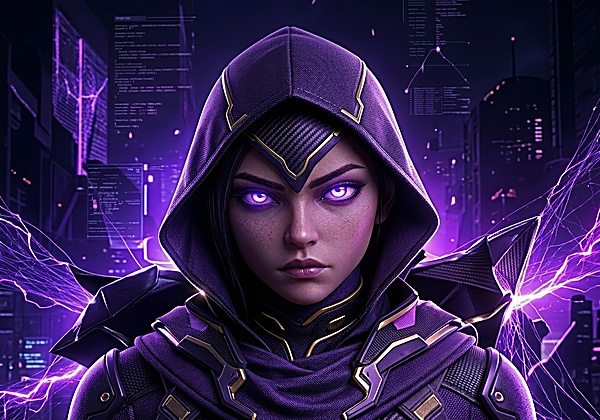
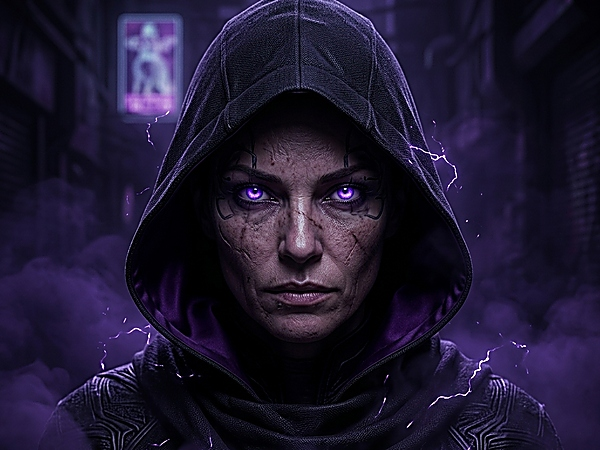
fix(ui): dark-themed VP Omen hero, full-image marketplace cards, and gritty profile portraits matching references

diff --git a/src/components/client/ClientHomePage.tsx b/src/components/client/ClientHomePage.tsx
@@ -154,57 +154,57 @@ export const ClientHomePage: React.FC<ClientHomePageProps> = ({
       {/* ========================================================================= */}
       {/* 1. HERO SECTION (Matching Reference Image media_1789878444993.jpg)       */}
       {/* ========================================================================= */}
-      <section className="relative w-full overflow-hidden min-h-[460px] sm:min-h-[500px] lg:min-h-[520px] flex items-center">
+      <section className="relative w-full overflow-hidden min-h-[380px] sm:min-h-[420px] lg:min-h-[450px] flex items-center">
         {/* Ambient atmospheric purple lighting */}
-        <div className="absolute top-1/3 right-1/4 w-[600px] h-[450px] bg-purple-600/20 rounded-full blur-[130px] pointer-events-none z-[1]" />
-        <div className="absolute bottom-0 left-10 w-[450px] h-[300px] bg-fuchsia-800/15 rounded-full blur-[100px] pointer-events-none z-[1]" />
+        <div className="absolute top-1/3 right-1/4 w-[500px] h-[380px] bg-purple-600/20 rounded-full blur-[120px] pointer-events-none z-[1]" />
+        <div className="absolute bottom-0 left-10 w-[400px] h-[260px] bg-fuchsia-800/15 rounded-full blur-[90px] pointer-events-none z-[1]" />
 
         {/* Right-aligned Hero Art container matching 16:9 reference scene without top/bottom clipping */}
-        <div className="absolute top-0 right-0 bottom-0 w-full lg:w-[60%] pointer-events-none select-none overflow-hidden z-0 flex items-center justify-end">
+        <div className="absolute top-0 right-0 bottom-0 w-full lg:w-[54%] pointer-events-none select-none overflow-hidden z-0 flex items-center justify-end">
           <img
             src="/assets/hires/hero_banner_full.jpg"
             alt="VIB Digital Profiles Heroine"
             className="w-full h-full object-cover object-center select-none pointer-events-none opacity-95"
           />
           {/* Smooth feathering gradient on the left boundary */}
-          <div className="absolute inset-y-0 left-0 w-44 sm:w-64 bg-gradient-to-r from-[#05040a] via-[#05040a]/80 to-transparent z-[1]" />
+          <div className="absolute inset-y-0 left-0 w-40 sm:w-60 bg-gradient-to-r from-[#05040a] via-[#05040a]/80 to-transparent z-[1]" />
           {/* Subtle top/bottom edge softening */}
           <div className="absolute inset-x-0 top-0 h-10 bg-gradient-to-b from-[#05040a] to-transparent z-[1]" />
           <div className="absolute inset-x-0 bottom-0 h-12 bg-gradient-to-t from-[#05040a] to-transparent z-[1]" />
         </div>
 
-        <div className="max-w-[1360px] mx-auto px-4 sm:px-6 lg:px-8 w-full relative z-10 py-8 sm:py-12">
-          <div className="max-w-xl lg:max-w-2xl space-y-4">
+        <div className="max-w-[1360px] mx-auto px-4 sm:px-6 lg:px-8 w-full relative z-10 py-6 sm:py-9">
+          <div className="max-w-xl lg:max-w-xl space-y-3.5">
             {/* Main Headline (2 lines matching reference exactly) */}
             <div className="space-y-1">
-              <h1 className="text-5xl sm:text-6xl lg:text-7xl font-black uppercase tracking-tight text-white leading-none font-rajdhani">
+              <h1 className="text-4xl sm:text-5xl lg:text-6xl font-black uppercase tracking-tight text-white leading-none font-rajdhani">
                 EXPLORE
               </h1>
-              <div className="text-5xl sm:text-6xl lg:text-7xl font-black uppercase tracking-tight leading-none font-rajdhani text-transparent bg-clip-text bg-gradient-to-r from-[#f3e8ff] via-[#d946ef] to-[#a855f7] drop-shadow-[0_0_35px_rgba(217,70,239,0.65)]">
+              <div className="text-4xl sm:text-5xl lg:text-6xl font-black uppercase tracking-tight leading-none font-rajdhani text-transparent bg-clip-text bg-gradient-to-r from-[#f3e8ff] via-[#d946ef] to-[#a855f7] drop-shadow-[0_0_30px_rgba(217,70,239,0.65)]">
                 DIGITAL PROFILES
               </div>
             </div>
 
             {/* Subtitle */}
-            <p className="text-gray-300 text-sm sm:text-base leading-relaxed font-normal max-w-lg">
+            <p className="text-gray-300 text-xs sm:text-sm leading-relaxed font-normal max-w-lg">
               Find your next competitive identity. Choose a marketplace below to start browsing verified profiles or community listings.
             </p>
 
             {/* 4 Trust Micro Pills */}
-            <div className="flex flex-wrap items-center gap-2.5 pt-2">
-              <div className="px-3.5 py-1.5 rounded-full bg-[#120f24]/90 border border-purple-500/35 text-xs text-gray-200 flex items-center gap-2 shadow-md">
+            <div className="flex flex-wrap items-center gap-2 pt-1">
+              <div className="px-3 py-1.5 rounded-full bg-[#120f24]/90 border border-purple-500/35 text-xs text-gray-200 flex items-center gap-2 shadow-md">
                 <ShieldCheck className="w-3.5 h-3.5 text-purple-400" />
                 <span className="font-medium">Safe &amp; Secure</span>
               </div>
-              <div className="px-3.5 py-1.5 rounded-full bg-[#120f24]/90 border border-purple-500/35 text-xs text-gray-200 flex items-center gap-2 shadow-md">
+              <div className="px-3 py-1.5 rounded-full bg-[#120f24]/90 border border-purple-500/35 text-xs text-gray-200 flex items-center gap-2 shadow-md">
                 <Check className="w-3.5 h-3.5 text-purple-400" />
                 <span className="font-medium">Verified Process</span>
               </div>
-              <div className="px-3.5 py-1.5 rounded-full bg-[#120f24]/90 border border-purple-500/35 text-xs text-gray-200 flex items-center gap-2 shadow-md">
+              <div className="px-3 py-1.5 rounded-full bg-[#120f24]/90 border border-purple-500/35 text-xs text-gray-200 flex items-center gap-2 shadow-md">
                 <Users className="w-3.5 h-3.5 text-purple-400" />
                 <span className="font-medium">Active Community</span>
               </div>
-              <div className="px-3.5 py-1.5 rounded-full bg-[#120f24]/90 border border-purple-500/35 text-xs text-gray-200 flex items-center gap-2 shadow-md">
+              <div className="px-3 py-1.5 rounded-full bg-[#120f24]/90 border border-purple-500/35 text-xs text-gray-200 flex items-center gap-2 shadow-md">
                 <Headphones className="w-3.5 h-3.5 text-purple-400" />
                 <span className="font-medium">Dedicated Support</span>
               </div>
@@ -245,13 +245,14 @@ export const ClientHomePage: React.FC<ClientHomePageProps> = ({
                   : 'bg-[#0e0c18] border-white/10 hover:border-amber-500/50'
               }`}
             >
-              {/* Background ambient character art (Hooded Assassin with golden rim lighting) */}
-              <div className="absolute left-1 bottom-0 w-48 h-48 opacity-60 pointer-events-none select-none z-0">
+              {/* Full background ambient character art (Hooded Assassin with golden rim lighting) */}
+              <div className="absolute inset-y-0 left-0 w-full sm:w-[58%] overflow-hidden pointer-events-none select-none z-0">
                 <img
                   src="/assets/hires/card_guaranteed_agent.png"
                   alt="Guaranteed Agent"
-                  className="w-full h-full object-contain"
+                  className="w-full h-full object-cover object-left opacity-80"
                 />
+                <div className="absolute inset-0 bg-gradient-to-r from-transparent via-[#130f1c]/75 to-[#0d0914]" />
               </div>
 
               {/* Card Header Content */}
@@ -328,13 +329,14 @@ export const ClientHomePage: React.FC<ClientHomePageProps> = ({
                   : 'bg-[#0e0c18] border-white/10 hover:border-sky-500/50'
               }`}
             >
-              {/* Background ambient character art (Cyber Blue Agent) */}
-              <div className="absolute right-0 top-0 w-52 h-52 opacity-60 pointer-events-none select-none z-0">
+              {/* Full background ambient character art (Cyber Blue Agent) */}
+              <div className="absolute inset-y-0 right-0 w-full sm:w-[58%] overflow-hidden pointer-events-none select-none z-0">
                 <img
                   src="/assets/hires/card_public_agent.png"
                   alt="Public Cyber Agent"
-                  className="w-full h-full object-contain"
+                  className="w-full h-full object-cover object-right opacity-80"
                 />
+                <div className="absolute inset-0 bg-gradient-to-l from-transparent via-[#090f1d]/75 to-[#070b16]" />
               </div>
 
               {/* Card Header Content */}

diff --git a/src/components/client/ClientVPOverviewPage.tsx b/src/components/client/ClientVPOverviewPage.tsx
@@ -92,7 +92,7 @@ export const ClientVPOverviewPage: React.FC<ClientVPOverviewPageProps> = ({
 
         <div className="max-w-[1360px] mx-auto px-4 sm:px-6 lg:px-8 grid grid-cols-1 lg:grid-cols-12 gap-6 items-center relative z-10">
           {/* Left Hero Details */}
-          <div className="lg:col-span-6 space-y-4">
+          <div className="lg:col-span-5 space-y-4">
             <div className="text-[11px] font-mono tracking-[0.22em] text-[#e879f9] uppercase font-bold">
               PREMIUM VP TOP-UP SERVICE
             </div>
@@ -138,55 +138,21 @@ export const ClientVPOverviewPage: React.FC<ClientVPOverviewPageProps> = ({
             </div>
           </div>
 
-          {/* Right Hero Graphic: Omen with floating coins and online card */}
-          <div className="lg:col-span-6 relative flex flex-col items-end">
-            {/* Top Right Floating Help Box */}
-            <div className="w-full max-w-[280px] p-3 rounded-2xl bg-[#0e0a1e]/90 border border-purple-500/30 backdrop-blur-md shadow-xl flex items-center justify-between gap-3 relative z-20 mb-1">
-              <div className="flex items-center gap-2.5">
-                <div className="w-7 h-7 rounded-lg bg-purple-500/10 border border-purple-500/20 flex items-center justify-center text-purple-400">
-                  <Headphones className="w-4 h-4" />
-                </div>
-                <div className="text-left">
-                  <div className="text-[10px] text-gray-400 font-mono">WE ARE ONLINE</div>
-                  <div className="font-extrabold text-xs text-white">9 AM – 9 PM</div>
-                </div>
-              </div>
+          {/* Right Hero Graphic: Cinematic Dark Omen with floating coins & online card matching reference */}
+          <div className="lg:col-span-7 relative flex flex-col items-end">
+            <div className="relative w-full max-w-[780px] h-[360px] sm:h-[440px] lg:h-[500px] xl:h-[540px] flex items-center justify-end">
+              <img
+                src="/assets/hires/vp_landing_hero.png"
+                alt="VIB VP Master Omen"
+                className="w-full h-full object-contain object-right filter drop-shadow-[0_0_40px_rgba(168,85,247,0.4)] relative z-10 select-none pointer-events-none"
+              />
+              {/* Clickable WhatsApp overlay over the "WhatsApp Us" button in the graphic */}
               <a
                 href="https://wa.me/919181801766?text=Hello%20VIB%20Team%2C%20I%20need%20assistance%20with%20VP%20packs"
                 target="_blank"
                 rel="noreferrer"
-                className="px-3 py-1.5 rounded-lg bg-purple-600 hover:bg-purple-500 text-white font-bold text-[11px] shadow-sm transition-colors whitespace-nowrap cursor-pointer"
-              >
-                WhatsApp Us →
-              </a>
-            </div>
-
-            {/* High-Res Hero Renders with Graffiti Overlay */}
-            <div className="relative w-full max-w-[560px] h-[380px] sm:h-[440px] flex items-center justify-center rounded-2xl">
-              {/* Neon Pink Graffiti on Bottom-Right */}
-              <div className="absolute right-2 bottom-6 pointer-events-none select-none text-right z-20 space-y-0.5">
-                <div className="font-marker text-base sm:text-lg text-purple-400 -rotate-12 drop-shadow-[0_0_8px_rgba(168,85,247,0.8)]">
-                  PLAY
-                </div>
-                <div className="font-marker text-lg sm:text-xl text-fuchsia-400 -rotate-10 drop-shadow-[0_0_10px_rgba(232,121,249,0.9)]">
-                  UPGRADE
-                </div>
-                <div className="font-marker text-xl sm:text-2xl text-purple-300 font-bold -rotate-8 drop-shadow-[0_0_12px_rgba(192,132,252,1)]">
-                  BELONG
-                </div>
-                <div className="pt-2 font-marker text-xs sm:text-sm text-purple-400 -rotate-6">
-                  SAME GAME...
-                </div>
-                <div className="font-marker text-xs sm:text-sm text-fuchsia-300 font-bold -rotate-6">
-                  MORE POSSIBILITIES.
-                </div>
-              </div>
-
-              {/* High-Res 3D Cinematic Omen with Floating VP Coins */}
-              <img
-                src="/assets/hires/vp_landing_hero.png"
-                alt="VIB VP Master Omen"
-                className="w-full h-full object-contain filter drop-shadow-[0_0_40px_rgba(168,85,247,0.5)] relative z-10 select-none pointer-events-none"
+                className="absolute top-[30%] right-[3%] w-[130px] h-[38px] z-20 rounded-lg cursor-pointer hover:bg-purple-500/20 transition-colors"
+                title="WhatsApp Us"
               />
             </div>
           </div>

diff --git a/src/components/client/ClientProfilesPage.tsx b/src/components/client/ClientProfilesPage.tsx
@@ -278,13 +278,14 @@ export const ClientProfilesPage: React.FC<ClientProfilesPageProps> = ({
                   : 'bg-[#0e0c18] border-white/10 hover:border-amber-500/50'
               }`}
             >
-              {/* Background ambient character art (Hooded Assassin with golden rim lighting) */}
-              <div className="absolute left-1 bottom-0 w-44 h-44 opacity-40 pointer-events-none select-none z-0">
+              {/* Full background ambient character art (Hooded Assassin with golden rim lighting) */}
+              <div className="absolute inset-y-0 left-0 w-full sm:w-[55%] overflow-hidden pointer-events-none select-none z-0">
                 <img
                   src="/assets/hires/card_guaranteed_agent.png"
                   alt="Guaranteed Agent"
-                  className="w-full h-full object-contain"
+                  className="w-full h-full object-cover object-left opacity-90"
                 />
+                <div className="absolute inset-0 bg-gradient-to-r from-transparent via-[#130f1c]/70 to-[#0d0914]" />
               </div>
 
               {/* Card Header Content */}
@@ -361,13 +362,14 @@ export const ClientProfilesPage: React.FC<ClientProfilesPageProps> = ({
                   : 'bg-[#0e0c18] border-white/10 hover:border-sky-500/50'
               }`}
             >
-              {/* Background ambient character art (Cyber Blue Agent looking over shoulder) */}
-              <div className="absolute right-0 top-0 w-48 h-48 opacity-40 pointer-events-none select-none z-0">
+              {/* Full background ambient character art (Cyber Blue Agent looking over shoulder) */}
+              <div className="absolute inset-y-0 right-0 w-full sm:w-[55%] overflow-hidden pointer-events-none select-none z-0">
                 <img
                   src="/assets/hires/card_public_agent.png"
                   alt="Public Cyber Agent"
-                  className="w-full h-full object-contain"
+                  className="w-full h-full object-cover object-right opacity-90"
                 />
+                <div className="absolute inset-0 bg-gradient-to-l from-transparent via-[#090f1d]/70 to-[#070b16]" />
               </div>
 
               {/* Card Header Content */}
